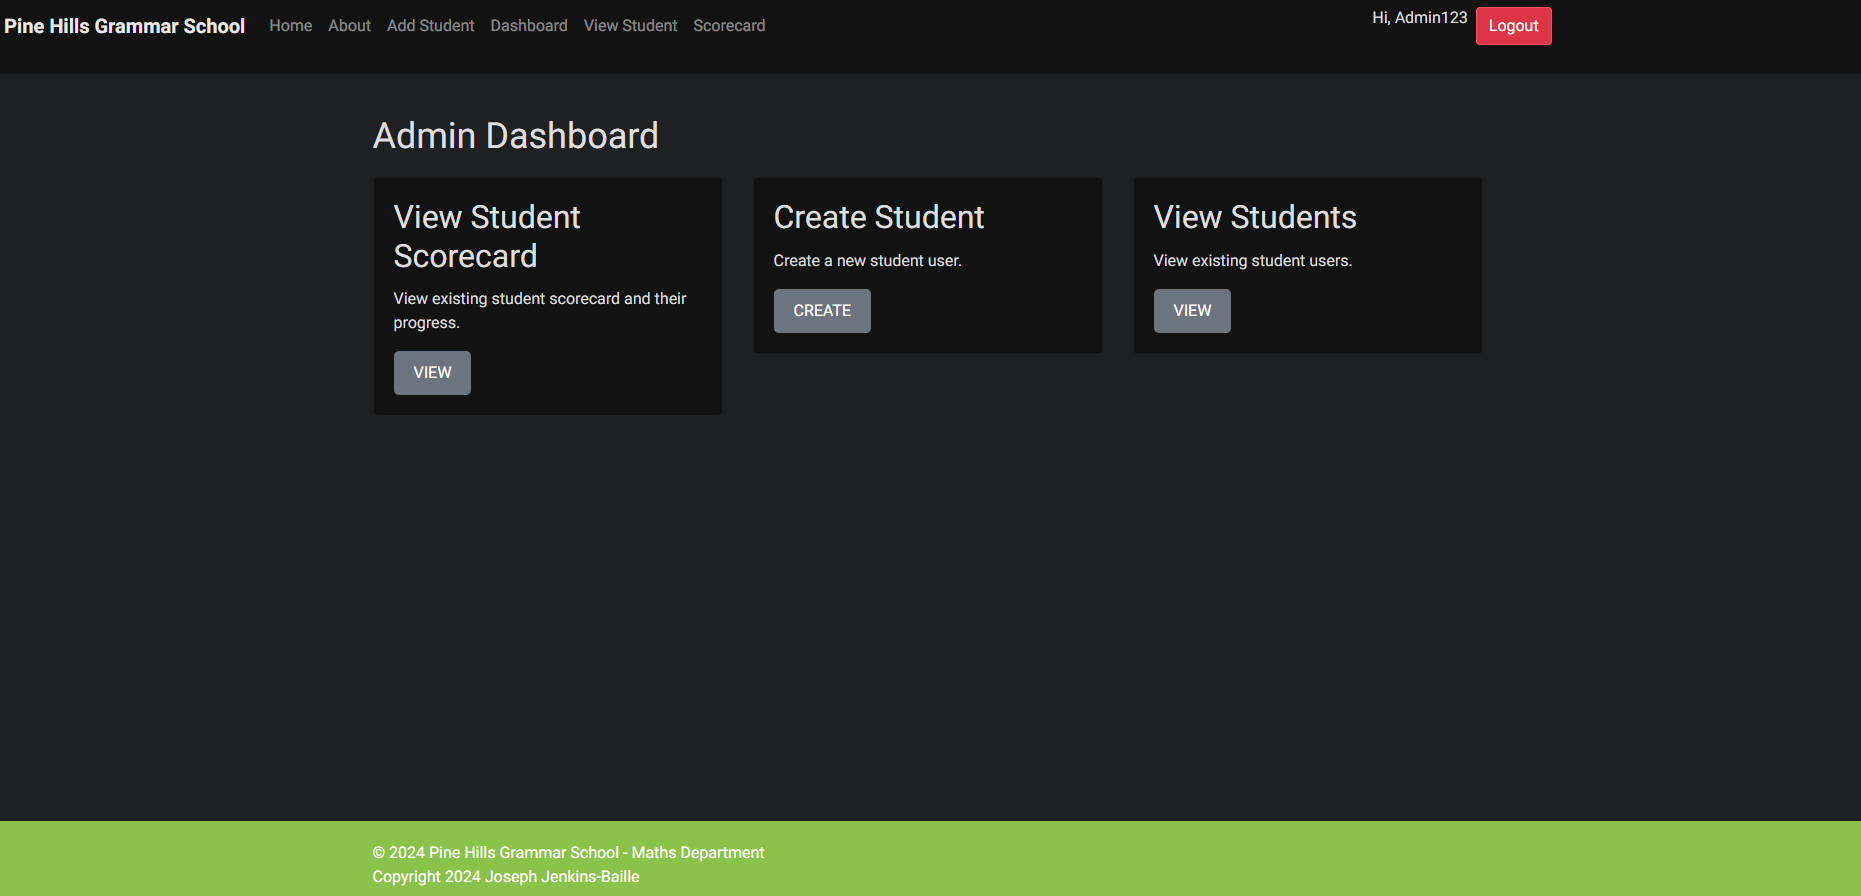
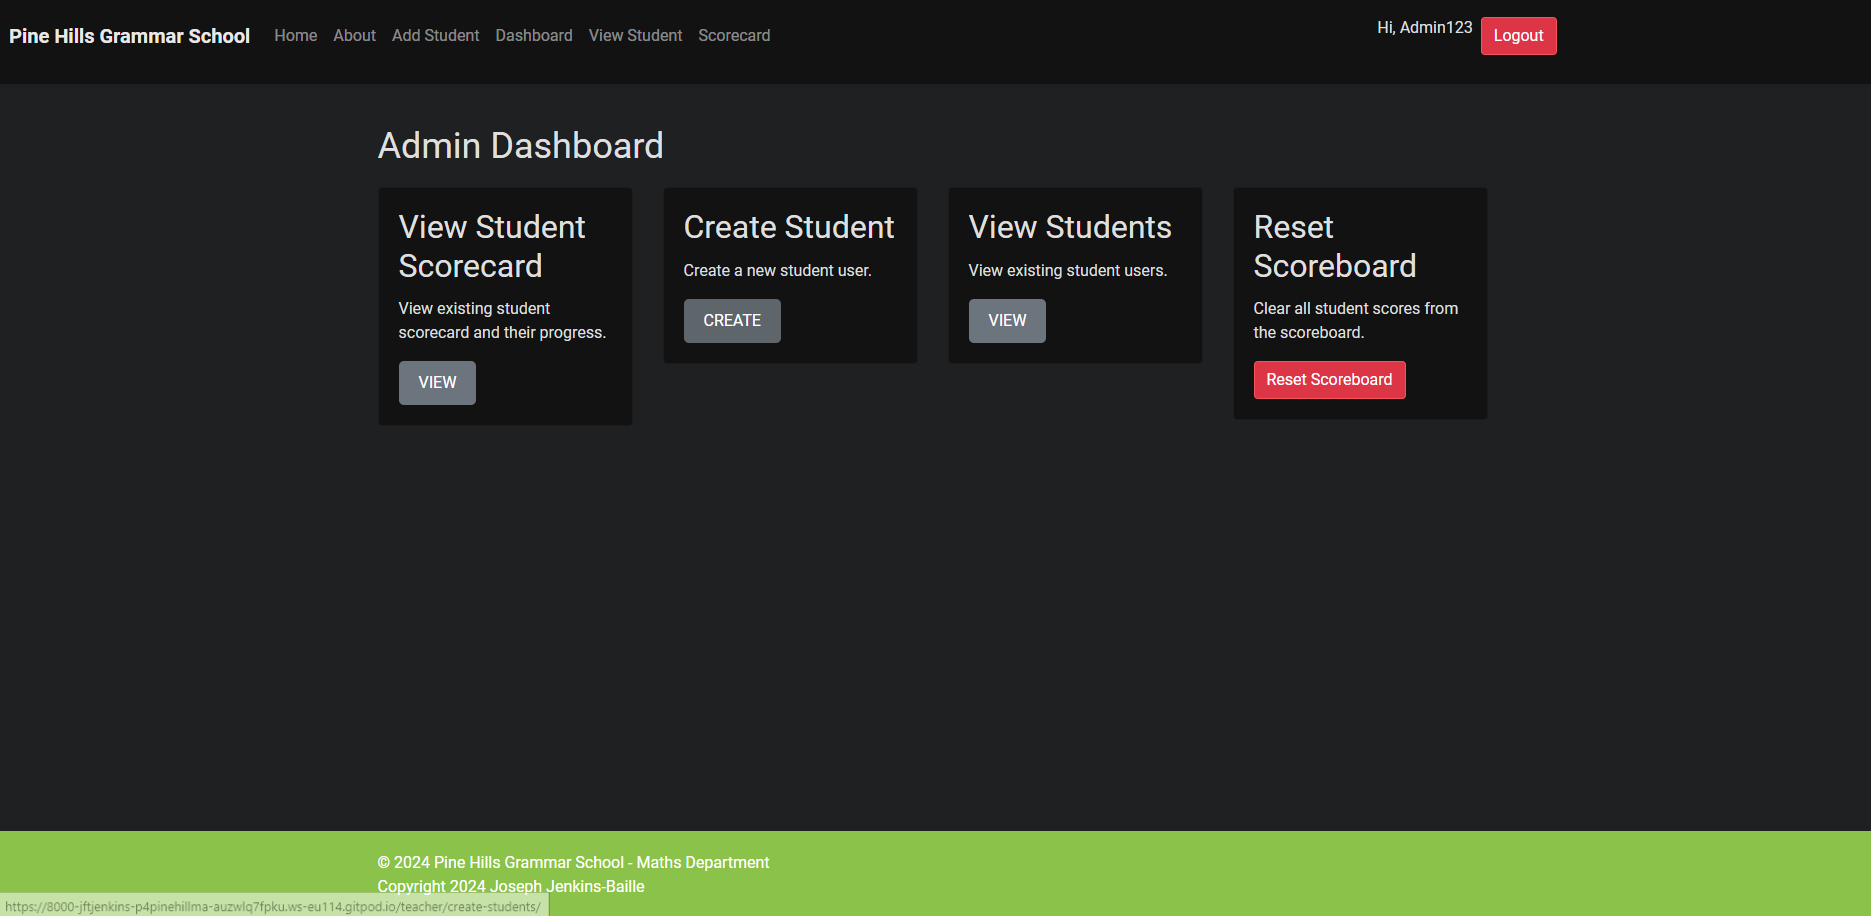
feat: Added Reset Scoreboard button to dashboard and added new view and url to teacher folder to allow this to work. Also updated README and TESTING for new feature.

diff --git a/templates/teacher/dashboard.html b/templates/teacher/dashboard.html
@@ -6,7 +6,7 @@
 <section>
     <h1 class="dashboard-heading">Admin Dashboard</h1>
     <div class="row">
-        <div class="col-md-4">
+        <div class="col-md-3 col-sm-6 mb-4">
             <div class="card">
                 <div class="card-body">
                     <h2 class="card-title">View Student Scorecard</h2>
@@ -15,7 +15,7 @@
                 </div>
             </div>
         </div>
-        <div class="col-md-4">
+        <div class="col-md-3 col-sm-6 mb-4">
             <div class="card">
                 <div class="card-body">
                     <h2 class="card-title">Create Student</h2>
@@ -24,12 +24,27 @@
                 </div>
             </div>
         </div>
-        <div class="col-md-4">
+        <div class="col-md-3 col-sm-6 mb-4">
             <div class="card">
                 <div class="card-body">
                     <h2 class="card-title">View Students</h2>
                     <p class="card-text">View existing student users.</p>
                     <a href="{% url 'view_students' %}" class="btn btn-primary">View</a>
+                </div>
+            </div>
+        </div>
+        <div class="col-md-3 col-sm-6 mb-4">
+            <div class="card">
+                <div class="card-body">
+                    <h2 class="card-title">Reset Scoreboard</h2>
+                    <p class="card-text">Clear all student scores from the scoreboard.</p>
+                    <form action="{% url 'reset_scoreboard' %}" method="post">
+                        {% csrf_token %}
+                        <button type="submit" class="btn btn-danger"
+                            onclick="return confirm('Are you sure you want to reset the scoreboard? This action cannot be undone.')">
+                            Reset Scoreboard
+                        </button>
+                    </form>
                 </div>
             </div>
         </div>

diff --git a/teacher/views.py b/teacher/views.py
@@ -1,3 +1,4 @@
+# teacher/views.py
 from django.shortcuts import render, redirect, get_object_or_404
 from django.contrib.auth import authenticate, login
 from django.contrib.auth.forms import AuthenticationForm
@@ -7,7 +8,7 @@ from .models import StudentForm
 from django.contrib import messages
 from django.contrib.auth.models import User
 from django.contrib.auth.hashers import make_password
-
+from student.models import ScoreCard  # Import the ScoreCard model
 
 # Create your views here.
 def teacher_login(request):
@@ -101,3 +102,12 @@ def delete_student(request, student_id):
         messages.success(request, "Student deleted successfully.")
         return redirect("view_students")
     return redirect("view_students")
+
+
+@login_required
+@staff_member_required
+def reset_scoreboard(request):
+    if request.method == "POST":
+        ScoreCard.objects.all().delete()
+        messages.success(request, "Scoreboard has been reset successfully.")
+    return redirect("dashboard")

diff --git a/teacher/urls.py b/teacher/urls.py
@@ -1,3 +1,4 @@
+# teacher/urls.py
 from django.urls import path
 from . import views
 
@@ -16,4 +17,5 @@ urlpatterns = [
         views.delete_student,
         name="delete_student",
     ),
+    path("reset_scoreboard/", views.reset_scoreboard, name="reset_scoreboard"),
 ]

diff --git a/README.md b/README.md
@@ -50,7 +50,7 @@ The development of this project followed Agile Methodology to ensure an iterativ
 
 ### Planning
 
-- **User Stories:** Created detailed user stories to capture the requirements and expectations from different users, including students and teachers.
+- **User Stories:** Created detailed user stories to capture the requirements and expectations from different users including students and teachers.
 - **Acceptance Criteria:** Each User Story contains Acceptance Criteria and an overview, some of which I had to add after I had already implemented them into my code as I was not sure what Acceptance Criteria would be required.
 - **Labels:** Used labels such as "Future Features", "May Have", and "Must Have" to prioritize tasks and features.
 
@@ -100,7 +100,7 @@ The structure of the Pine Hills Grammar School - Maths Department application is
 - **Dashboard:** Different dashboards for students and teachers, displaying relevant information and functionalities.
 - **Lesson Pages:** Categorized lessons with randomly generated questions to practice different maths skills.
 - **Scorecard:** A dedicated page for students to view their progress and for teachers to monitor student performance.
-- **Admin Panel:** For teachers to manage student accounts, reset passwords, and view analytics.
+- **Admin Panel:** For teachers to manage student accounts and reset passwords.
 
 #### Design Choices
 
@@ -220,7 +220,7 @@ These choices ensure that the application is not only functional but also visual
         Teachers Edit Student Page
     ![Teachers Student Management Page](images/teacher%20edit%20student%20module.png)
 
-        Teachers Delete Student Page
+        Teachers Delete Student page
     ![Teachers Delete Student Page](images/teacher%20delete%20student%20module.png)
 
     </details>
@@ -273,7 +273,7 @@ These choices ensure that the application is not only functional but also visual
     </details>
 
 - **Add New Student:**
-  - Only teachers are able to access this part using their login details.
+  - Only teachers are able to access this part using there login details.
   - Teachers can add new students to the database.
   - Form validation ensures accurate data entry.
   - New students are added to the system and can immediately start using the platform.
@@ -281,7 +281,7 @@ These choices ensure that the application is not only functional but also visual
 - **Quiz and Question Generation:**
   - Both teachers and students can access this page through the student login page.
   - Questions are randomly generated for different difficulty levels and types (addition, subtraction, multiplication, division).
-  - Custom logic ensures appropriate difficulty and correct answer formats eg. All division questions at Level 1 and 2 will give integer answers; All multiplication questions at level 1 and 2 will involve multiplying by single digit numbers; All subtraction questions in Level 1 will give positive answers.
+  - Custom logic ensures appropriate difficulty and correct answer formats.
   - Students can submit answers and receive immediate feedback on their performance.
 
     <details>
@@ -324,15 +324,13 @@ These choices ensure that the application is not only functional but also visual
         Division Level 3
     ![Division Level 3 Question Page](images/division%20lvl%203.png)
 
-        Results Page
-    ![Results Page](images/answer%20page.png)
-
     </details>
 
 - **Admin Dashboard:**
   - Only teachers can access this page using their logins through the teacher login page.
   - Provides an overview of student performance and other relevant metrics.
   - Teachers can manage lessons, view scorecards, and handle student information from a single interface.
+  - Teachers can reset the scoreboard, clearing all student scores from the system.
 
     <details>
 
@@ -352,7 +350,6 @@ These choices ensure that the application is not only functional but also visual
 - [Create an analytics section for teachers so that they may more easily analyse students work](https://github.com/users/jftjenkins/projects/5/views/1?pane=issue&itemId=56695787)
 - Implement more lessons covering a larger range of mathematical topics.
 - Further expand on the scoreboard, and make it so that it can be filtered using a variety of different options, such as by topic, or what level students have completed.
-- Create ability for teachers to create new instances of themselves directly through the website, rather then as a Superuser.
 
 [Back to Top](#pine-hills-grammar-school---maths-department)
 
@@ -470,19 +467,19 @@ This project was deployed using Heroku and ElephantSQL. Below are the detailed s
 9. **Migrate the Database:**
     - After deploying, you need to run the database migrations. You can do this via the Heroku CLI:
       ```sh
-      heroku run python3 manage.py migrate
+      python3 manage.py migrate
       ```
 
 10. **Create a Superuser (Optional):**
     - If you need admin access to the Django admin interface, create a superuser by running:
       ```sh
-      heroku run python3 manage.py createsuperuser
+      python3 manage.py createsuperuser
       ```
 
 11. **Collect Static Files:**
     - Collect all static files by running:
       ```sh
-      heroku run python3 manage.py collectstatic --noinput
+      python3 manage.py collectstatic --noinput
       ```
 
 12. **Open the Application:**
@@ -492,9 +489,6 @@ This project was deployed using Heroku and ElephantSQL. Below are the detailed s
 
 - Make sure to regularly back up your database.
 - Use Heroku's monitoring tools to keep track of your app's performance and usage.
-- For debugging and logs, use the Heroku CLI command:
-  ```sh
-  heroku logs --tail
 
 [Back to Top](#pine-hills-grammar-school---maths-department)
 
@@ -518,7 +512,7 @@ All testing information can be found in the [TESTING.md](TESTING.md) file.
 
 ### Remaining Bugs
 
-- No known bugs remain.
+- There is an issue where sometimes, after deleting or creating a student on the dashboard, if the user logs out and then clicks on one of the sign in pages, a message will appear under the sign in pages saying "Student was successfully created/deleted". This has no affect on the user logging in, and I can't seem to locate the text and where it is coming from, or why it is appearing on the sign in page.
 
 [Back to Top](#pine-hills-grammar-school---maths-department)
 

diff --git a/TESTING.md b/TESTING.md
@@ -4,6 +4,7 @@
 - [Lighthouse Testing](#lighthouse-testing)
 - [User Stories Testing](#user-stories-testing)
 - [Features Testing](#features-testing)
+- [Browser and Mode Testing](#browser-and-mode-testing)
 
 _____
 
@@ -423,10 +424,42 @@ ALL TESTS PASS
 | View Dashboard                | login as teacher | Dashboard displayed  |
 | Manage Users                  | navigate to user management | User management interface displayed  |
 | View Reports                  | navigate to reports | Reports displayed  |
+| Reset Scoreboard              | click reset button | Scoreboard reset, all scores cleared |
 
 ALL TESTS PASS
 
 </details>
+
+<br>
+
+[Back To Top](#table-of-contents)
+
+_____
+
+## Browser and Mode Testing
+
+The website was tested on multiple browsers to ensure compatibility and responsiveness. Additionally, tests were conducted in both light mode and dark mode to ensure a consistent user experience across different settings.
+
+### Browsers Tested
+
+- Google Chrome
+- Microsoft Edge
+- Opera
+
+### Modes Tested
+
+- Light Mode
+- Dark Mode
+
+### Test Results
+
+| Browser       | Light Mode | Dark Mode |
+| ------------- |:----------:|:---------:|
+| Chrome        | Pass       | Pass      |
+| Edge          | Pass       | Pass      |
+| Opera        | Pass       | Pass      |
+
+The website displayed consistently and functioned correctly across all tested browsers and modes.
 
 <br>
 
